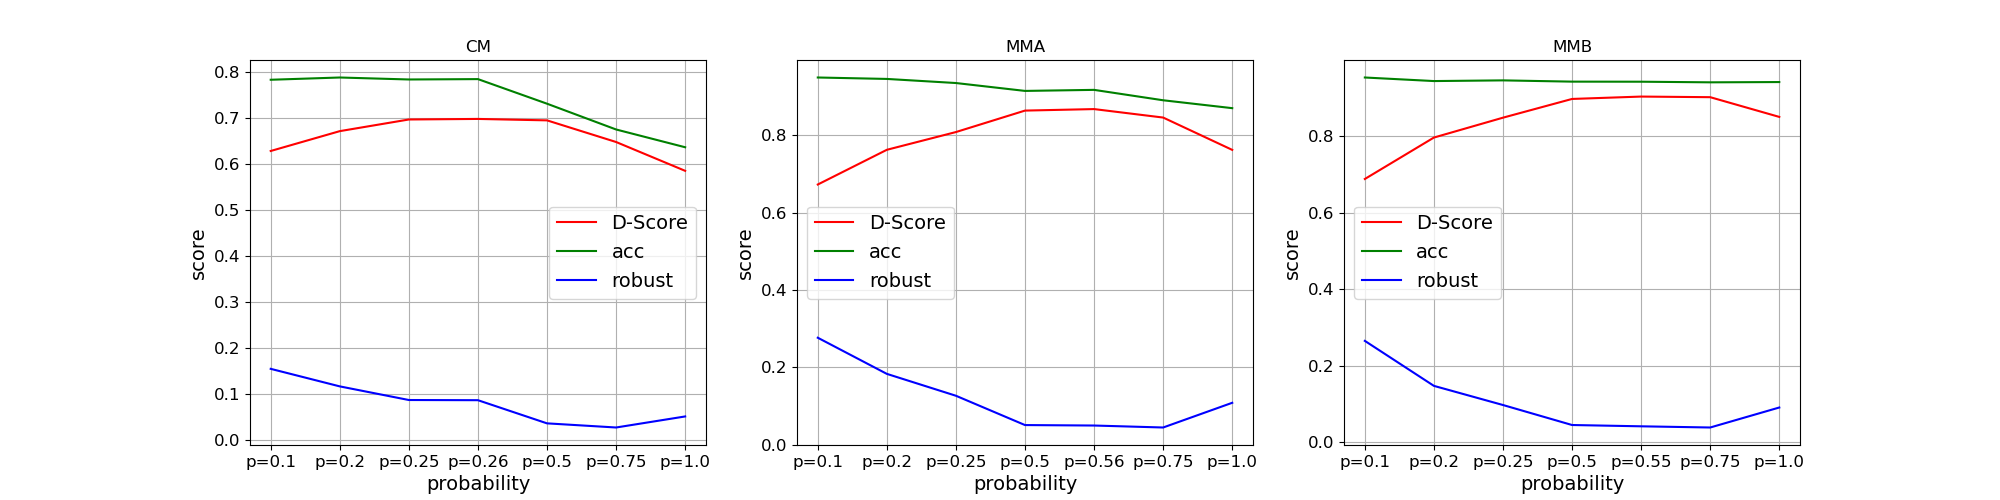
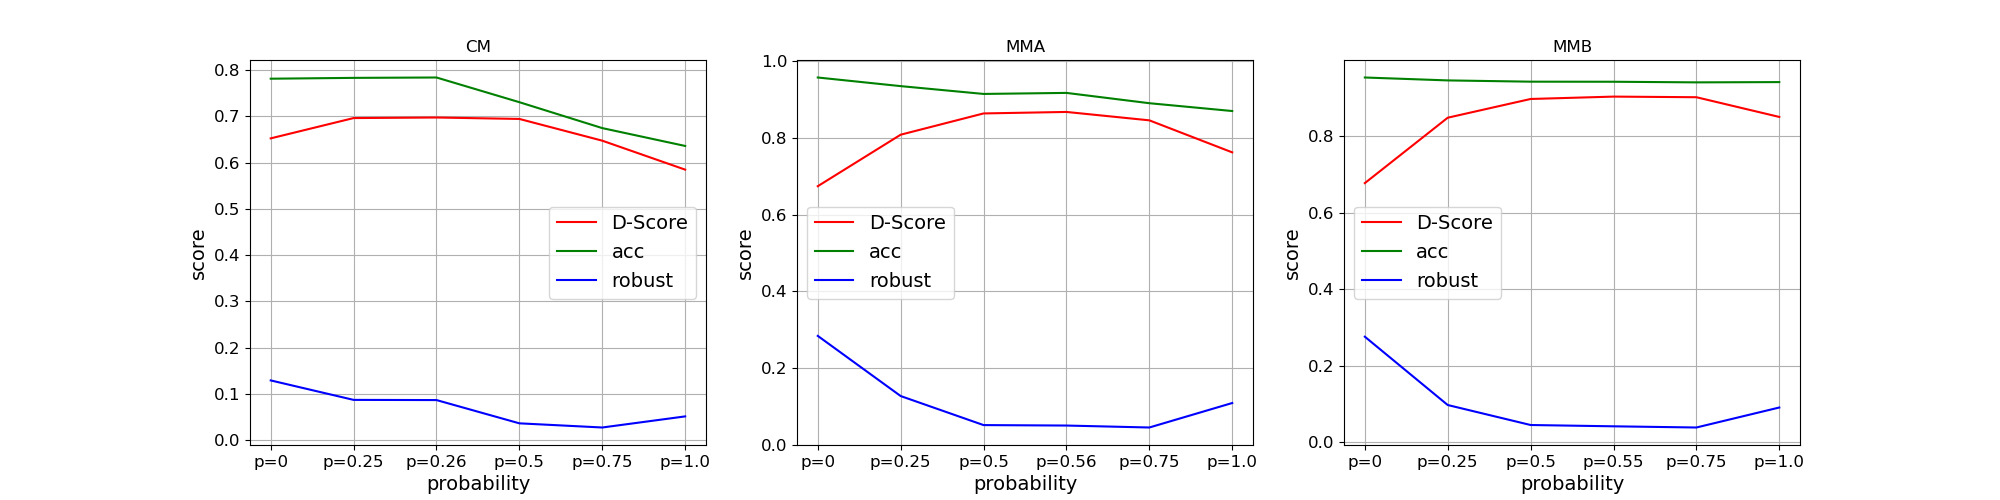
update

diff --git a/scoren2.py b/scoren2.py
@@ -146,13 +146,13 @@ c_4_it = [[73.79,73.56],[73.85,73.95]]
 c_4_mo = [[66.31,66.95],[65.78,66.4]]
 c_4_acc = 75.64
 
-c_5_it = [[],[]]
-c_5_mo = [[],[]]
-c_5_acc = 69.62
+c_5_it = [[67.88,67.57],[68.62,67.98]]
+c_5_mo = [[61.62,60.22],[59.53,60.35]]
+c_5_acc = 69.33
 
-c_6_it = [[],[]]
-c_6_mo = [[],[]]
-c_6_acc = 65.75
+c_6_it = [[50.96,51.36],[48.56,48.62]]
+c_6_mo = [[53.01,52.88],[52.17,52.99]]
+c_6_acc = 64.84
 
 c_7_it = [[47.98,59.12,48.9],[63.14,75.88,64.71],[53.29,63.93,50.01]]
 c_7_mo = [[77.89,78.03,77.53],[78.10,74.77,77.01],[77.39,74.67,76.09]]
@@ -245,128 +245,128 @@ print("\r\n")
 
 
 
-print("MNIST1111111111111111111111111")
+# print("MNIST1111111111111111111111111")
 
 
-f = calNorm(mo2fea(feam1,accm1,2))
-itx = copy.deepcopy(attm1)
-att7 = calNorm(attm1)
-score7, r7, a7 = calScore(att7,itx, f, 2, -1, 1, accm1)
-print("!!!!!!!!!!!!!!!!!!!!!!!!")
-print(score7, r7, a7)
-print("\r\n")
-
-f = calNorm(mo2fea(mnist1_1_mo,mnist1_1_acc,2))
-itx = copy.deepcopy(mnist1_1_it)
-att7 = calNorm(mnist1_1_it)
-score7, r7, a7 = calScore(att7,itx, f, 2, -1, 1, mnist1_1_acc)
-print("!!!!!!!!!!!!!!!!!!!!!!!!")
-print(score7, r7, a7)
-print("\r\n")
-
-f = calNorm(mo2fea(mnist1_2_mo,mnist1_2_acc,2))
-itx = copy.deepcopy(mnist1_2_it)
-att7 = calNorm(mnist1_2_it)
-score7, r7, a7 = calScore(att7,itx, f, 2, -1, 1, mnist1_2_acc)
-print("!!!!!!!!!!!!!!!!!!!!!!!!")
-print(score7, r7, a7)
-print("\r\n")
-
-f = calNorm(mo2fea(mnist1_3_mo,mnist1_3_acc,2))
-itx = copy.deepcopy(mnist1_3_it)
-att7 = calNorm(mnist1_3_it)
-score7, r7, a7 = calScore(att7,itx, f, 2, -1, 1, mnist1_3_acc)
-print("!!!!!!!!!!!!!!!!!!!!!!!!")
-print(score7, r7, a7)
-print("\r\n")
-
-f = calNorm(mo2fea(mnist1_4_mo,mnist1_4_acc,2))
-itx = copy.deepcopy(mnist1_4_it)
-att7 = calNorm(mnist1_4_it)
-score7, r7, a7 = calScore(att7,itx, f, 2, -1, 1, mnist1_4_acc)
-print("!!!!!!!!!!!!!!!!!!!!!!!!")
-print(score7, r7, a7)
-print("\r\n")
-
-f = calNorm(mo2fea(mnist1_5_mo,mnist1_5_acc,2))
-itx = copy.deepcopy(mnist1_5_it)
-att7 = calNorm(mnist1_5_it)
-score7, r7, a7 = calScore(att7,itx, f, 2, -1, 1, mnist1_5_acc)
-print("!!!!!!!!!!!!!!!!!!!!!!!!")
-print(score7, r7, a7)
-print("\r\n")
-
-f = calNorm(mo2fea(mnist1_6_mo,mnist1_6_acc,2))
-itx = copy.deepcopy(mnist1_6_it)
-att7 = calNorm(mnist1_6_it)
-score7, r7, a7 = calScore(att7,itx, f, 2, -1, 1, mnist1_6_acc)
-print("!!!!!!!!!!!!!!!!!!!!!!!!")
-print(score7, r7, a7)
-print("\r\n")
-
-# f = calNorm(mo2fea(mnist1_1_mo,mnist1_1_acc,3))
-# itx = copy.deepcopy(mnist1_1_it)
-# att7 = calNorm(mnist1_1_it)
-# score7, r7, a7 = calScore(att7,itx, f, 3, -1, 1, mnist1_1_acc)
+# f = calNorm(mo2fea(feam1,accm1,2))
+# itx = copy.deepcopy(attm1)
+# att7 = calNorm(attm1)
+# score7, r7, a7 = calScore(att7,itx, f, 2, -1, 1, accm1)
 # print("!!!!!!!!!!!!!!!!!!!!!!!!")
 # print(score7, r7, a7)
 # print("\r\n")
 
-print("MNIST222222222222222222222")
+# f = calNorm(mo2fea(mnist1_1_mo,mnist1_1_acc,2))
+# itx = copy.deepcopy(mnist1_1_it)
+# att7 = calNorm(mnist1_1_it)
+# score7, r7, a7 = calScore(att7,itx, f, 2, -1, 1, mnist1_1_acc)
+# print("!!!!!!!!!!!!!!!!!!!!!!!!")
+# print(score7, r7, a7)
+# print("\r\n")
 
-f = calNorm(mo2fea(feam2,accm2,2))
-itx = copy.deepcopy(attm2)
-att7 = calNorm(attm2)
-score7, r7, a7 = calScore(att7,itx, f, 2, -1, 1, accm2)
-print("!!!!!!!!!!!!!!!!!!!!!!!!")
-print(score7, r7, a7)
-print("\r\n")
+# f = calNorm(mo2fea(mnist1_2_mo,mnist1_2_acc,2))
+# itx = copy.deepcopy(mnist1_2_it)
+# att7 = calNorm(mnist1_2_it)
+# score7, r7, a7 = calScore(att7,itx, f, 2, -1, 1, mnist1_2_acc)
+# print("!!!!!!!!!!!!!!!!!!!!!!!!")
+# print(score7, r7, a7)
+# print("\r\n")
+
+# f = calNorm(mo2fea(mnist1_3_mo,mnist1_3_acc,2))
+# itx = copy.deepcopy(mnist1_3_it)
+# att7 = calNorm(mnist1_3_it)
+# score7, r7, a7 = calScore(att7,itx, f, 2, -1, 1, mnist1_3_acc)
+# print("!!!!!!!!!!!!!!!!!!!!!!!!")
+# print(score7, r7, a7)
+# print("\r\n")
+
+# f = calNorm(mo2fea(mnist1_4_mo,mnist1_4_acc,2))
+# itx = copy.deepcopy(mnist1_4_it)
+# att7 = calNorm(mnist1_4_it)
+# score7, r7, a7 = calScore(att7,itx, f, 2, -1, 1, mnist1_4_acc)
+# print("!!!!!!!!!!!!!!!!!!!!!!!!")
+# print(score7, r7, a7)
+# print("\r\n")
+
+# f = calNorm(mo2fea(mnist1_5_mo,mnist1_5_acc,2))
+# itx = copy.deepcopy(mnist1_5_it)
+# att7 = calNorm(mnist1_5_it)
+# score7, r7, a7 = calScore(att7,itx, f, 2, -1, 1, mnist1_5_acc)
+# print("!!!!!!!!!!!!!!!!!!!!!!!!")
+# print(score7, r7, a7)
+# print("\r\n")
+
+# f = calNorm(mo2fea(mnist1_6_mo,mnist1_6_acc,2))
+# itx = copy.deepcopy(mnist1_6_it)
+# att7 = calNorm(mnist1_6_it)
+# score7, r7, a7 = calScore(att7,itx, f, 2, -1, 1, mnist1_6_acc)
+# print("!!!!!!!!!!!!!!!!!!!!!!!!")
+# print(score7, r7, a7)
+# print("\r\n")
+
+# # f = calNorm(mo2fea(mnist1_1_mo,mnist1_1_acc,3))
+# # itx = copy.deepcopy(mnist1_1_it)
+# # att7 = calNorm(mnist1_1_it)
+# # score7, r7, a7 = calScore(att7,itx, f, 3, -1, 1, mnist1_1_acc)
+# # print("!!!!!!!!!!!!!!!!!!!!!!!!")
+# # print(score7, r7, a7)
+# # print("\r\n")
+
+# print("MNIST222222222222222222222")
+
+# f = calNorm(mo2fea(feam2,accm2,2))
+# itx = copy.deepcopy(attm2)
+# att7 = calNorm(attm2)
+# score7, r7, a7 = calScore(att7,itx, f, 2, -1, 1, accm2)
+# print("!!!!!!!!!!!!!!!!!!!!!!!!")
+# print(score7, r7, a7)
+# print("\r\n")
 
 
-f = calNorm(mo2fea(mnist2_1_mo,mnist2_1_acc,2))
-itx = copy.deepcopy(mnist2_1_it)
-att7 = calNorm(mnist2_1_it)
-score7, r7, a7 = calScore(att7,itx, f, 2, -1, 1, mnist2_1_acc)
-print("!!!!!!!!!!!!!!!!!!!!!!!!")
-print(score7, r7, a7)
-print("\r\n")
+# f = calNorm(mo2fea(mnist2_1_mo,mnist2_1_acc,2))
+# itx = copy.deepcopy(mnist2_1_it)
+# att7 = calNorm(mnist2_1_it)
+# score7, r7, a7 = calScore(att7,itx, f, 2, -1, 1, mnist2_1_acc)
+# print("!!!!!!!!!!!!!!!!!!!!!!!!")
+# print(score7, r7, a7)
+# print("\r\n")
 
-f = calNorm(mo2fea(mnist2_2_mo,mnist2_2_acc,2))
-itx = copy.deepcopy(mnist2_2_it)
-att7 = calNorm(mnist2_2_it)
-score7, r7, a7 = calScore(att7,itx, f, 2, -1, 1, mnist2_2_acc)
-print("!!!!!!!!!!!!!!!!!!!!!!!!")
-print(score7, r7, a7)
-print("\r\n")
+# f = calNorm(mo2fea(mnist2_2_mo,mnist2_2_acc,2))
+# itx = copy.deepcopy(mnist2_2_it)
+# att7 = calNorm(mnist2_2_it)
+# score7, r7, a7 = calScore(att7,itx, f, 2, -1, 1, mnist2_2_acc)
+# print("!!!!!!!!!!!!!!!!!!!!!!!!")
+# print(score7, r7, a7)
+# print("\r\n")
 
-f = calNorm(mo2fea(mnist2_3_mo,mnist2_3_acc,2))
-itx = copy.deepcopy(mnist2_3_it)
-att7 = calNorm(mnist2_3_it)
-score7, r7, a7 = calScore(att7,itx, f, 2, -1, 1, mnist2_3_acc)
-print("!!!!!!!!!!!!!!!!!!!!!!!!")
-print(score7, r7, a7)
-print("\r\n")
+# f = calNorm(mo2fea(mnist2_3_mo,mnist2_3_acc,2))
+# itx = copy.deepcopy(mnist2_3_it)
+# att7 = calNorm(mnist2_3_it)
+# score7, r7, a7 = calScore(att7,itx, f, 2, -1, 1, mnist2_3_acc)
+# print("!!!!!!!!!!!!!!!!!!!!!!!!")
+# print(score7, r7, a7)
+# print("\r\n")
 
-f = calNorm(mo2fea(mnist2_4_mo,mnist2_4_acc,2))
-itx = copy.deepcopy(mnist2_4_it)
-att7 = calNorm(mnist2_4_it)
-score7, r7, a7 = calScore(att7,itx, f, 2, -1, 1, mnist2_4_acc)
-print("!!!!!!!!!!!!!!!!!!!!!!!!")
-print(score7, r7, a7)
-print("\r\n")
+# f = calNorm(mo2fea(mnist2_4_mo,mnist2_4_acc,2))
+# itx = copy.deepcopy(mnist2_4_it)
+# att7 = calNorm(mnist2_4_it)
+# score7, r7, a7 = calScore(att7,itx, f, 2, -1, 1, mnist2_4_acc)
+# print("!!!!!!!!!!!!!!!!!!!!!!!!")
+# print(score7, r7, a7)
+# print("\r\n")
 
-f = calNorm(mo2fea(mnist2_5_mo,mnist2_5_acc,2))
-itx = copy.deepcopy(mnist2_5_it)
-att7 = calNorm(mnist2_5_it)
-score7, r7, a7 = calScore(att7,itx, f, 2, -1, 1, mnist2_5_acc)
-print("!!!!!!!!!!!!!!!!!!!!!!!!")
-print(score7, r7, a7)
-print("\r\n")
+# f = calNorm(mo2fea(mnist2_5_mo,mnist2_5_acc,2))
+# itx = copy.deepcopy(mnist2_5_it)
+# att7 = calNorm(mnist2_5_it)
+# score7, r7, a7 = calScore(att7,itx, f, 2, -1, 1, mnist2_5_acc)
+# print("!!!!!!!!!!!!!!!!!!!!!!!!")
+# print(score7, r7, a7)
+# print("\r\n")
 
-f = calNorm(mo2fea(mnist2_6_mo,mnist2_6_acc,2))
-itx = copy.deepcopy(mnist2_6_it)
-att7 = calNorm(mnist2_6_it)
-score7, r7, a7 = calScore(att7,itx, f, 2, -1, 1, mnist2_6_acc)
-print("!!!!!!!!!!!!!!!!!!!!!!!!")
-print(score7, r7, a7)
-print("\r\n")
+# f = calNorm(mo2fea(mnist2_6_mo,mnist2_6_acc,2))
+# itx = copy.deepcopy(mnist2_6_it)
+# att7 = calNorm(mnist2_6_it)
+# score7, r7, a7 = calScore(att7,itx, f, 2, -1, 1, mnist2_6_acc)
+# print("!!!!!!!!!!!!!!!!!!!!!!!!")
+# print(score7, r7, a7)
+# print("\r\n")

diff --git a/drawBAR.py b/drawBAR.py
@@ -3,26 +3,40 @@ import matplotlib.pyplot as plt
 from sympy import C
 
 
-o_cm = [0.6278,0.6709,0.6962, 0.6974,0.6943,0.6473,0.5847]
-r_cm = [0.1546,0.1165,0.0869, 0.0865,0.0362,0.0272,0.0512]
-a_cm = [0.7825,0.7874,0.7831, 0.7839,0.7305,0.6745,0.6359]
+# o_cm = [0.6278,0.6709,0.6962, 0.6974,0.6943,0.6473,0.5847]
+# r_cm = [0.1546,0.1165,0.0869, 0.0865,0.0362,0.0272,0.0512]
+# a_cm = [0.7825,0.7874,0.7831, 0.7839,0.7305,0.6745,0.6359]
 
-o_m1 = [0.6731,0.7629,0.8088,0.8643,0.8682 ,0.8463,0.7627]
-r_m1 = [0.2768,0.1833,0.1267,0.0509,0.0497 ,0.0446,0.1085]
-a_m1 = [0.9499,0.9462,0.9356,0.9152,0.9179 ,0.8910,0.8706]
+# o_m1 = [0.6731,0.7629,0.8088,0.8643,0.8682 ,0.8463,0.7627]
+# r_m1 = [0.2768,0.1833,0.1267,0.0509,0.0497 ,0.0446,0.1085]
+# a_m1 = [0.9499,0.9462,0.9356,0.9152,0.9179 ,0.8910,0.8706]
 
-o_m2 = [0.6876,0.7958,0.8477,0.8966,0.9028 ,0.9012,0.8497]
-r_m2 = [0.2649,0.1474,0.0974,0.0452,0.0418 ,0.0387,0.0909]
-a_m2 = [0.9526,0.9433,0.9451,0.9418,0.9416 ,0.9400,0.9407]
+# o_m2 = [0.6876,0.7958,0.8477,0.8966,0.9028 ,0.9012,0.8497]
+# r_m2 = [0.2649,0.1474,0.0974,0.0452,0.0418 ,0.0387,0.0909]
+# a_m2 = [0.9526,0.9433,0.9451,0.9418,0.9416 ,0.9400,0.9407]
 
 
-labels = ['p=0.1','p=0.2','p=0.25','p=0.26','p=0.5','p=0.75','p=1.0']
-labelsm1 = ['p=0.1','p=0.2','p=0.25','p=0.5','p=0.56','p=0.75','p=1.0']
-labelsm2 = ['p=0.1','p=0.2','p=0.25','p=0.5','p=0.55','p=0.75','p=1.0']
-overall = o_m1
-robust = r_m1
-acc = a_m1
+# labels = ['p=0.1','p=0.2','p=0.25','p=0.26','p=0.5','p=0.75','p=1.0']
+# labelsm1 = ['p=0.1','p=0.2','p=0.25','p=0.5','p=0.56','p=0.75','p=1.0']
+# labelsm2 = ['p=0.1','p=0.2','p=0.25','p=0.5','p=0.55','p=0.75','p=1.0']
+# overall = o_m1
+# robust = r_m1
+# acc = a_m1
+o_cm = [0.6523,0.6962, 0.6974,0.6943,0.6473,0.5847]
+r_cm = [0.1290,0.0869, 0.0865,0.0362,0.0272,0.0512]
+a_cm = [0.7813,0.7831, 0.7839,0.7305,0.6745,0.6359]
 
+o_m1 = [0.6744,0.8088,0.8643,0.8682 ,0.8463,0.7627]
+r_m1 = [0.2837,0.1267,0.0509,0.0497 ,0.0446,0.1085]
+a_m1 = [0.9581,0.9356,0.9152,0.9179 ,0.8910,0.8706]
+
+o_m2 = [0.6769,0.8477,0.8966,0.9028 ,0.9012,0.8497]
+r_m2 = [0.2758,0.0974,0.0452,0.0418 ,0.0387,0.0909]
+a_m2 = [0.9527,0.9451,0.9418,0.9416 ,0.9400,0.9407]
+
+labels = ['p=0','p=0.25','p=0.26','p=0.5','p=0.75','p=1.0']
+labelsm1 = ['p=0','p=0.25','p=0.5','p=0.56','p=0.75','p=1.0']
+labelsm2 = ['p=0','p=0.25','p=0.5','p=0.55','p=0.75','p=1.0']
 plt.figure(figsize=(20,5))
 #plot 1:
 

diff --git a/drawallbar.py b/drawallbar.py
@@ -3,9 +3,9 @@ import matplotlib.pyplot as plt
 from sympy import C
 
 #n=2
-o_cm2 = [0.6622,]
-r_cm2 = [0.1108,]
-a_cm2 = [0.773,]
+o_cm2 = [0.6622,0.7682,0.7552,0.7358,0.6649,0.5605]
+r_cm2 = [0.1108,0.0484,0.0328,0.0151,0.0181,0.0819]
+a_cm2 = [0.7730,0.8166,0.7880,0.7509,0.6830,0.6424]
 
 o_m12 = [0.6650,0.8982,0.9103,0.9224,0.8716,0.6578]
 r_m12 = [0.2631,0.0464,0.0327,0.0191,0.0286,0.2212]
@@ -42,9 +42,9 @@ labelsm2 = ['p=0','p=0.25','p=0.5','p=0.55','p=0.75','p=1.0']
 
 
 #n=4
-o_cm4 = [0.6849,]
-r_cm4 = [0.1083,]
-a_cm4 = [0.7933,]
+o_cm4 = [0.6849,,,,,]
+r_cm4 = [0.1083,,,,,]
+a_cm4 = [0.7933,,,,,]
 
 o_m14 = [0.7504,0.8116,0.8948,0.9008,0.8921,0.8408]
 r_m14 = [0.2224,0.1487,0.0417,0.03,0.0224,0.0429]

diff --git a/scoren4.py b/scoren4.py
@@ -145,9 +145,9 @@ c_4_it = [[],[],[],[]]
 c_4_mo = [[],[],[],[]]
 c_4_acc = 75.35
 
-c_5_it = [[],[],[],[]]
-c_5_mo = [[],[],[],[]]
-c_5_acc = 69.62
+c_5_it = [[67.05,69.3,69.5,67.32],[70.62,72.32,72.52,70.29],[70.58,72.41,72.41,70.14],[67.48,69.35,68.8,66.93]]
+c_5_mo = [[70.81,69.96,69.92,70.5],[70.71,66.3,65.79,68.96],[69.31,65.21,64.74,69.32],[70.68,68.23,68.26,70.03]]
+c_5_acc = 71.63
 
 c_6_it = [[],[],[],[]]
 c_6_mo = [[],[],[],[]]

diff --git a/train.py b/train.py
@@ -328,7 +328,7 @@ def main():
     
 
     #load data
-    probs = [0.75,1.0]
+    probs = [0.1,0.2,0.25,0.5,0.75,1.0]
     sizes = [0.1,0.2,0.25,0.5,0.75,1.0]
     for tt in probs:
         global prob
